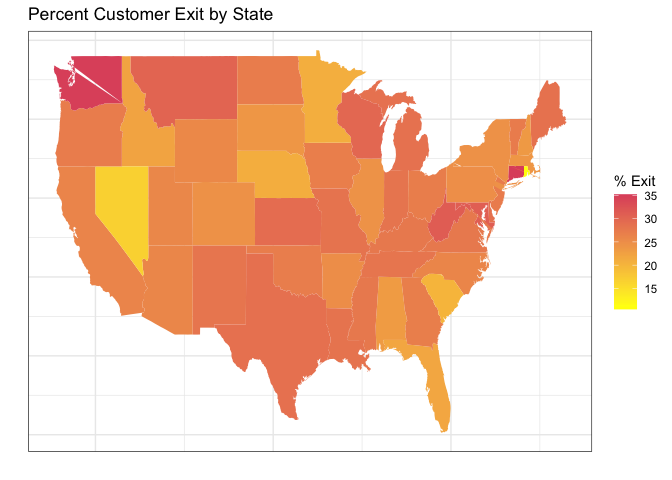
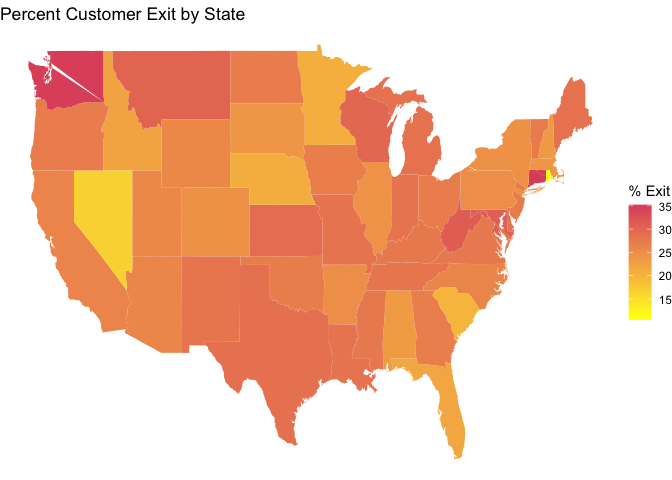
Updated visualizations file to include a pie chart example and some basic statistical tests to support those results. Also dropped the background from the map plot.

diff --git a/churn_data_vis.md b/churn_data_vis.md
@@ -232,7 +232,7 @@ ch.df %>%
 #everything below this point is just changing the plot aesthetically. Choosing pretty colors, making the background look prettier, changing labels, and removing ticks from the x and y axes. 
   scale_fill_gradient(low = "yellow", high = palette()[2])+
   labs(x= "", y = "", fill = "% Exit", title = "Percent Customer Exit by State")+
-  theme_bw()+
+  theme_void()+
   theme(axis.ticks.x = element_blank(), axis.text.x = element_blank(), axis.text.y = element_blank(), axis.ticks.y = element_blank())
 ```
 
@@ -292,3 +292,77 @@ ch.df %>%
     ## `geom_smooth()` using formula 'y ~ x'
 
 ![](churn_data_vis_files/figure-gfm/unnamed-chunk-7-1.png)<!-- -->
+
+We could also make a pie chart for churn rate by gender. Pie charts are
+tricky in ggplot, and require that you first create a bar plot and then
+make use of polar coordinates.
+
+``` r
+ch.df %>%
+#The following three lines take the Gender and Churn columns, and then find the proportion of customers who exit and the proportion retained.
+  select(Gender, Churn) %>%
+  group_by(Gender) %>%
+  summarize(Exited = mean(Churn), Retained = 1-mean(Churn)) %>%
+#Next we pivot longer in order to pull the exited and retained columns into one column, allowing for later facet wrapping. 
+  pivot_longer(cols = c("Exited", "Retained")) %>%
+#Now we initialize the plot, piping the transformed data into a ggplot object
+  ggplot( aes(x = "", y = value, fill = name))+
+#the following four lines create the plot, using stat = "identity" forces it to take the values directly from the dataset, and then coord_polar transforms the barplot into a pie chart. Theme_void gets rid of a lot of meaningless additional information, and then we remove the label for the legend as the labels are sufficient. 
+  geom_bar(stat = "identity")+
+  coord_polar("y", start = 0)+
+  theme_void()+
+  labs(fill = "")+
+#Facet wrapping by Gender breaks this into 3 pie charts, one for each gender identity. 
+  facet_wrap(~Gender)
+```
+
+![](churn_data_vis_files/figure-gfm/unnamed-chunk-8-1.png)<!-- -->
+
+It appears that men are more likely than women or nonbinary individuals.
+If we want to know by exactly how much we can calculate it.
+
+``` r
+m_churn <- ch.df %>%
+  select(Gender, Churn) %>%
+  mutate(Gender = ifelse(Gender == "Male", "Male", "Female/Nonbinary"))%>%
+  group_by(Gender) %>%
+  summarize(Exited = mean(Churn))
+
+#the relative % difference between men and women/nonbinary for churn
+(m_churn[[2,2]]/m_churn[[1,2]] - 1)*100
+```
+
+    ## [1] 9.793699
+
+``` r
+#the absolute % difference between men an women/nonbinary for churn
+(m_churn[[2,2]]-m_churn[[1,2]]) * 100
+```
+
+    ## [1] 2.480101
+
+So men are on average \~9.8% more likely to leave the company than women
+or nonbinary individuals, with an absolute difference of 2.48% more
+churn among men. It could be that our company is not appealing to men as
+much as it is to women or nonbinary people, however this could also lack
+statistical significance. To check this we can run a simple statistical
+test, the chi square test.
+
+``` r
+chisq_data <- ch.df %>%
+  select(Gender, Churn) %>%
+  mutate(Gender = ifelse(Gender == "Male", "Male", "Female/Nonbinary"))
+
+#the chisq.test function expects factors for x and y, but can recognize that there are only two values for y, and therefore treats it as a factor despite being numerical data.
+chisq.test(x = chisq_data$Gender, y = chisq_data$Churn)
+```
+
+    ## 
+    ##  Pearson's Chi-squared test with Yates' continuity correction
+    ## 
+    ## data:  chisq_data$Gender and chisq_data$Churn
+    ## X-squared = 7.7474, df = 1, p-value = 0.005379
+
+The p value is .005379 and therefore we can say that there is a
+significant difference in churn rate for men and women at an alpha of
+.05.
